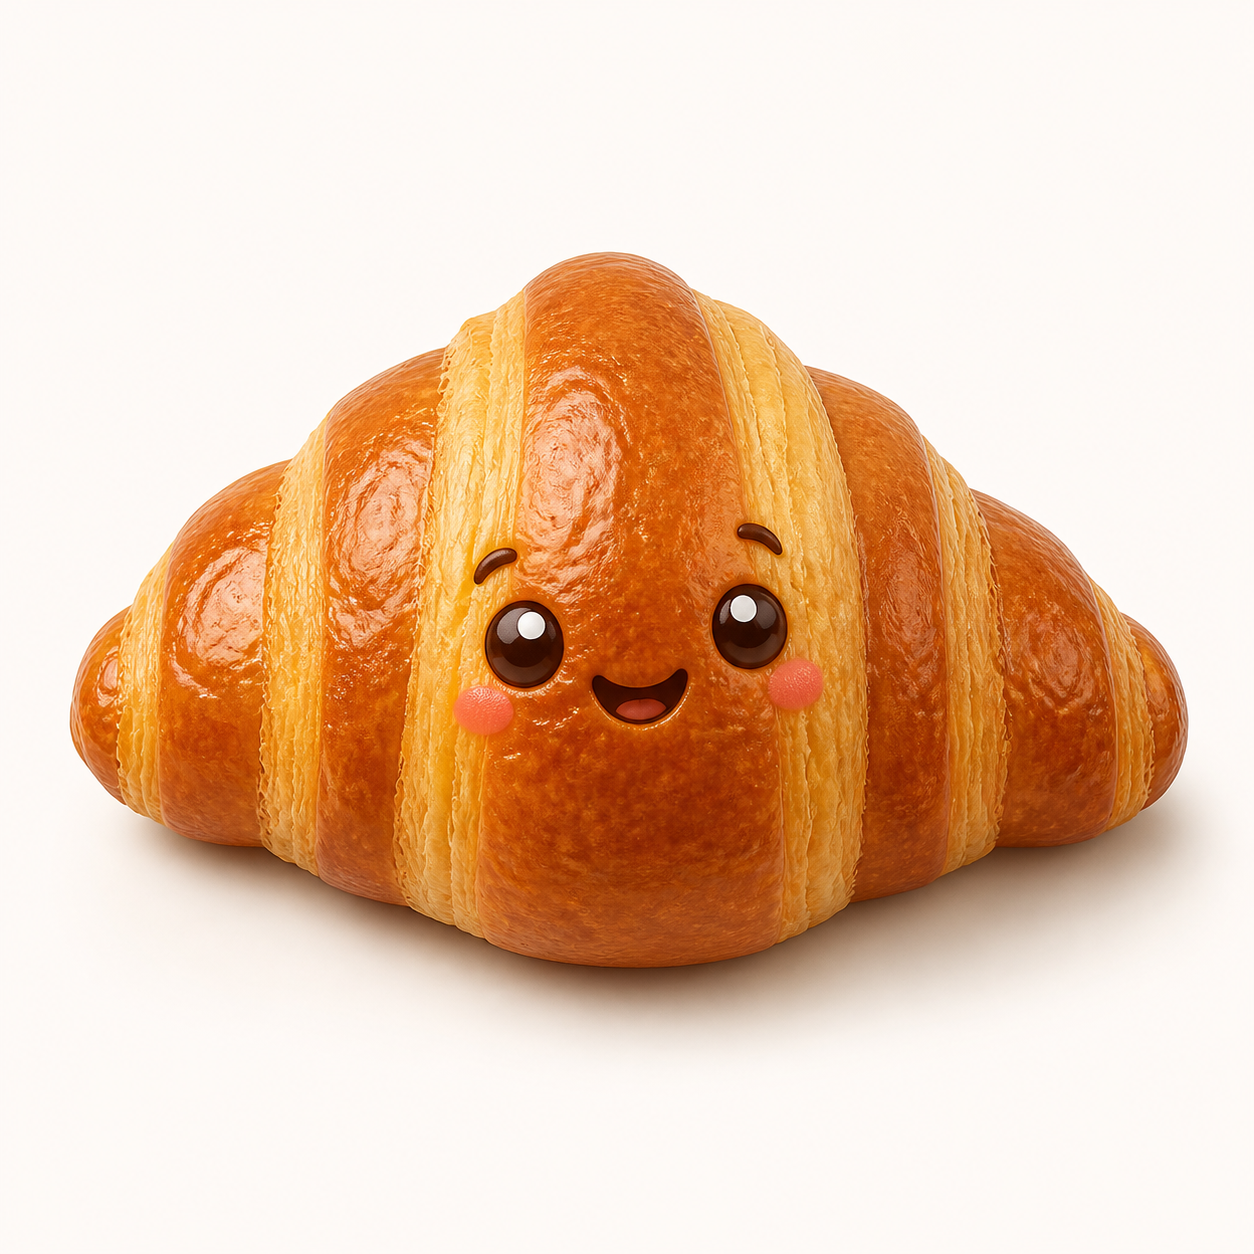
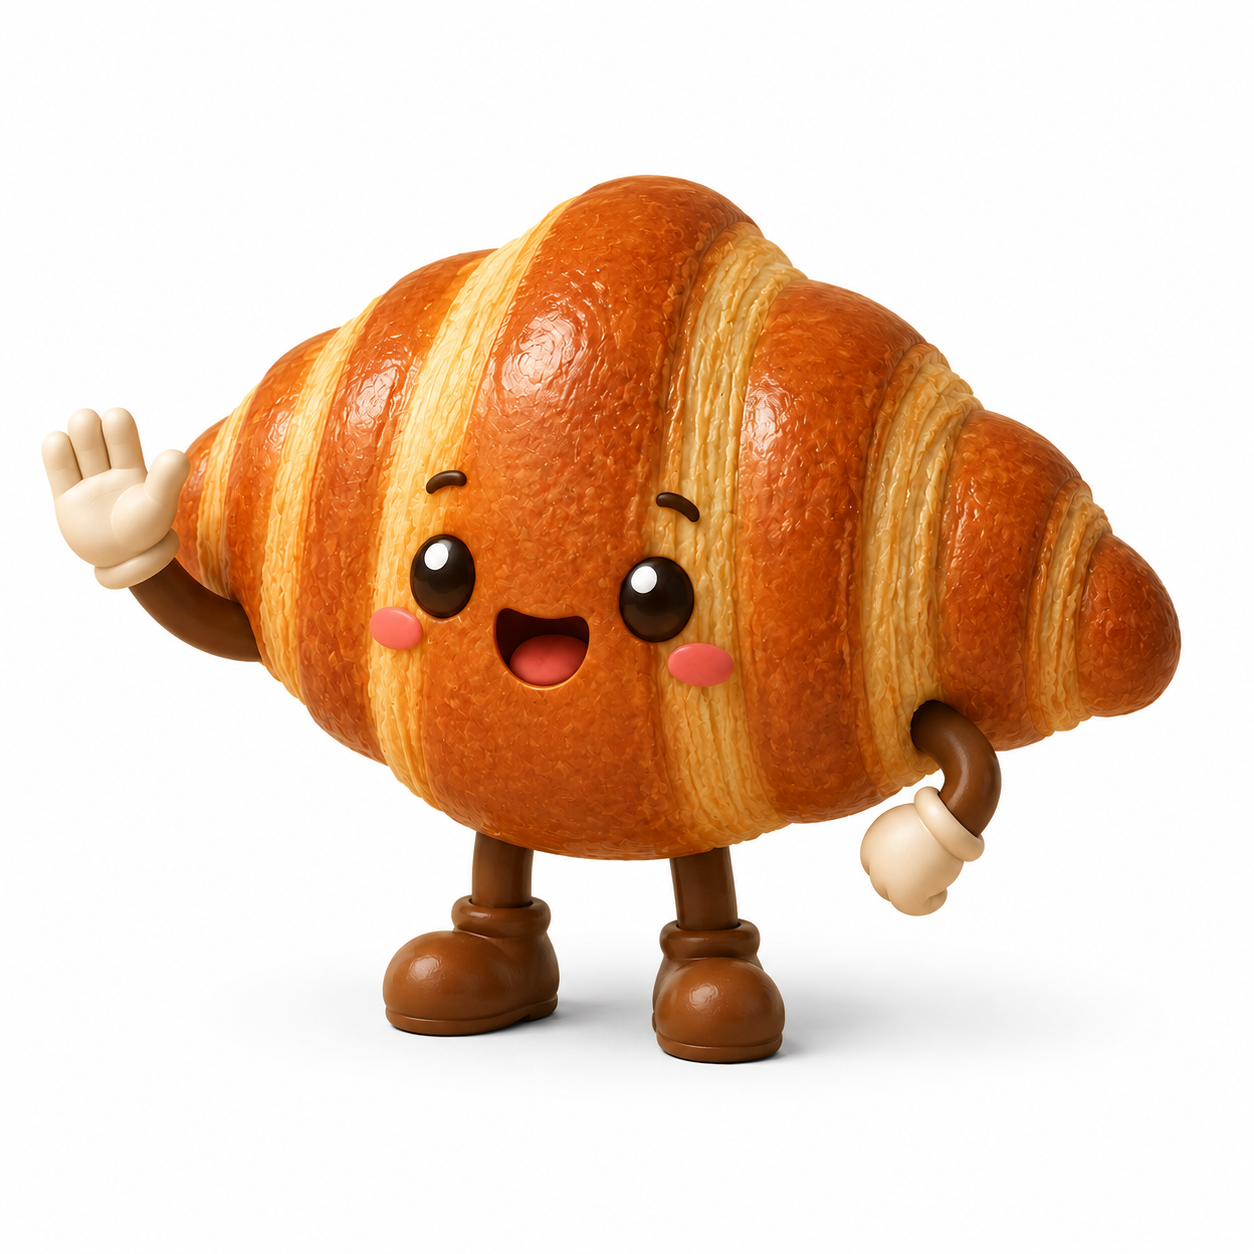
Design : 배너 이미지 변경

diff --git a/src/styles/base.css b/src/styles/base.css
@@ -476,9 +476,7 @@ button {
   gap: 28px;
   padding: 30px;
   overflow: hidden;
-  background:
-    linear-gradient(90deg, rgba(255, 255, 255, 0.96) 0%, rgba(255, 255, 255, 0.88) 48%, rgba(247, 243, 235, 0.92) 100%),
-    #fff;
+  background: #fff;
   border: 1px solid var(--color-border-soft);
   border-radius: 28px;
   box-shadow: var(--shadow-soft);
@@ -541,9 +539,11 @@ button {
 }
 
 .hero-stage.theme-croissant::before {
-  background:
-    linear-gradient(135deg, rgba(255, 255, 255, 0.76), rgba(255, 245, 229, 0.2) 44%, rgba(122, 70, 32, 0.1)),
-    #f4eadb;
+  background: #fff;
+}
+
+.hero-stage.theme-croissant::after {
+  display: none;
 }
 
 .hero-stage.theme-photo::before {
@@ -567,11 +567,12 @@ button {
 }
 
 .hero-stage.theme-croissant img {
-  width: min(88%, 560px);
-  height: 86%;
+  width: min(78%, 480px);
+  height: 74%;
   object-fit: contain;
-  mix-blend-mode: multiply;
-  filter: saturate(0.94) contrast(0.98) drop-shadow(0 24px 22px rgba(89, 43, 18, 0.2));
+  mix-blend-mode: normal;
+  filter: none;
+  transform: translateY(-18px);
 }
 
 .hero-stage.theme-brand img {